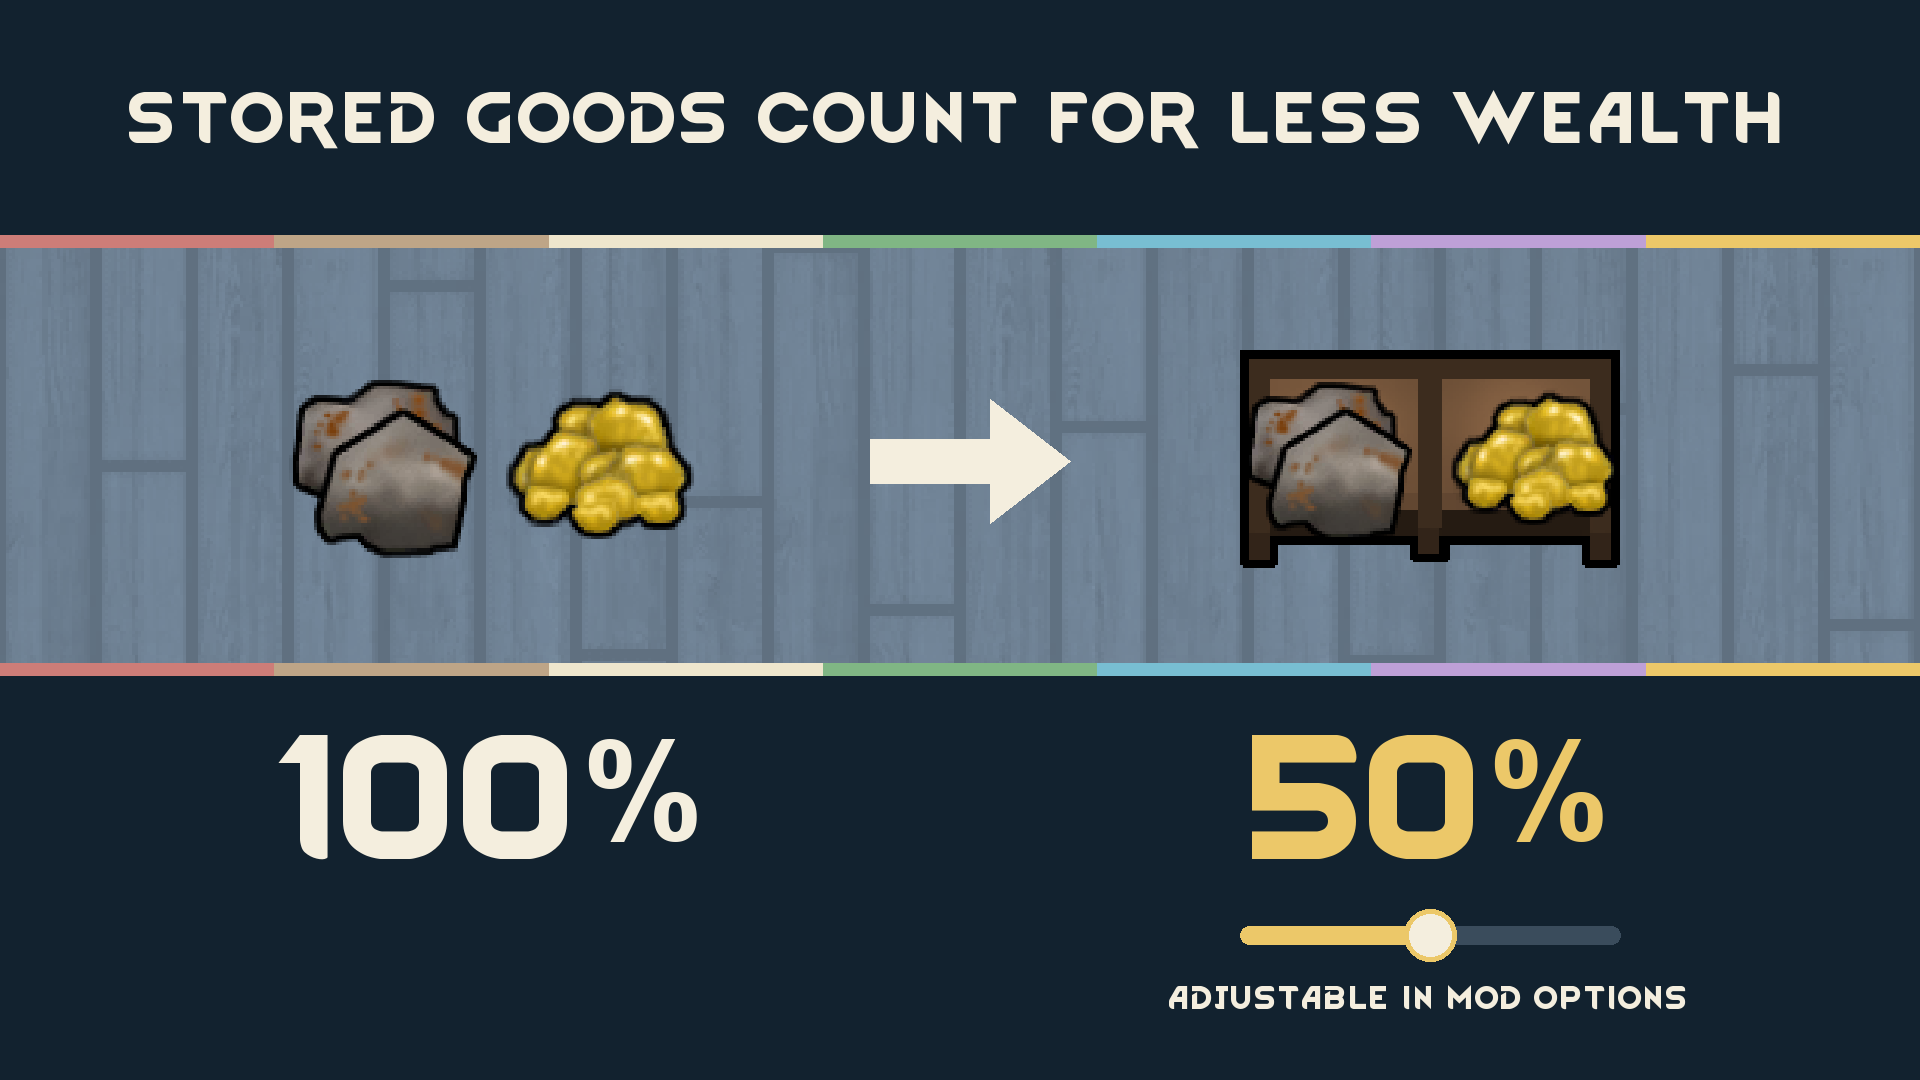
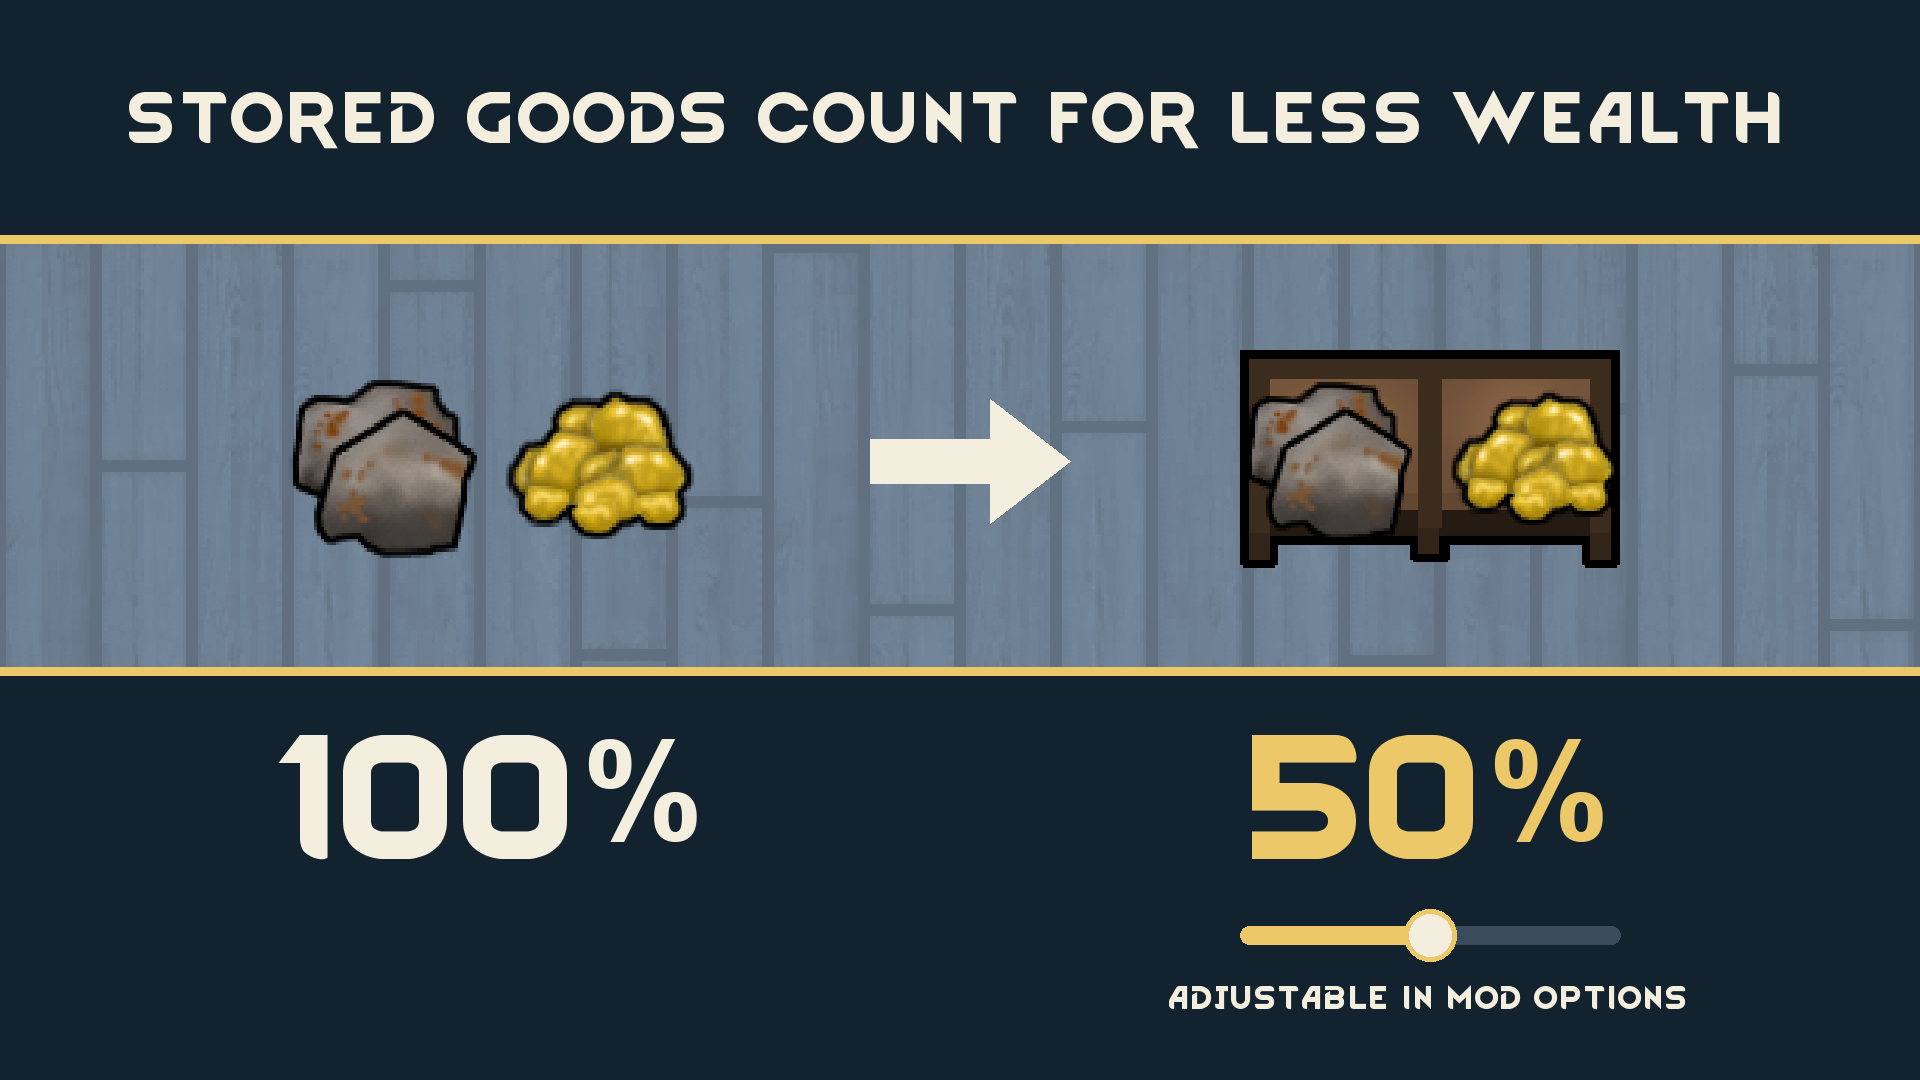
Gold gallery dividers and storage-room note in description
The gallery image's dividers now use the thumbnail's plain gold trim
instead of quality-tier colour bands. The Steam description adds that
the mod is another reason to build a shelved storage room rather than
a stockpile zone.

Changed region(s): [[0.0, 0.6111, 1.0, 0.6417], [0.0, 0.2139, 1.0, 0.2444]]

diff --git a/scripts/render-workshop-art.py b/scripts/render-workshop-art.py
@@ -186,8 +186,9 @@ d = ImageDraw.Draw(g)
 text(d, 960, 90, 'Stored goods count for less wealth', 84, CREAM, width=1700)
 top, bottom = 235, 675
 floor(g, (0, top, 1920, bottom), 3.0)
-stripe(g, top, 12)
-stripe(g, bottom - 12, 12)
+# Plain gold dividers, matching the thumbnail's band trim.
+d.rectangle((0, top, 1920, top + 8), fill=GOLD)
+d.rectangle((0, bottom - 8, 1920, bottom), fill=GOLD)
 mid = (top + bottom) // 2 + 6
 # Same goods both sides: Steel and Gold, loose on the floor, then on a vanilla shelf.
 paste(g, steel, 380, mid, 200)

diff --git a/steam-description.md b/steam-description.md
@@ -2,6 +2,8 @@ Your stockpiled goods count for less colony wealth while they sit in Adaptive St
 
 Every stack in your warehouse adds to colony wealth, and wealth feeds the storyteller. With this mod, items in ASF buildings count at a percentage you choose, 50% by default. Their market value stays the same, so you still trade them at full price.
 
+It's one more reason to build a proper storage room with shelves instead of leaving everything in a stockpile zone.
+
 [b]Mod version:[/b] 1.0.0
 [b]Supported game version:[/b] RimWorld 1.7
 
